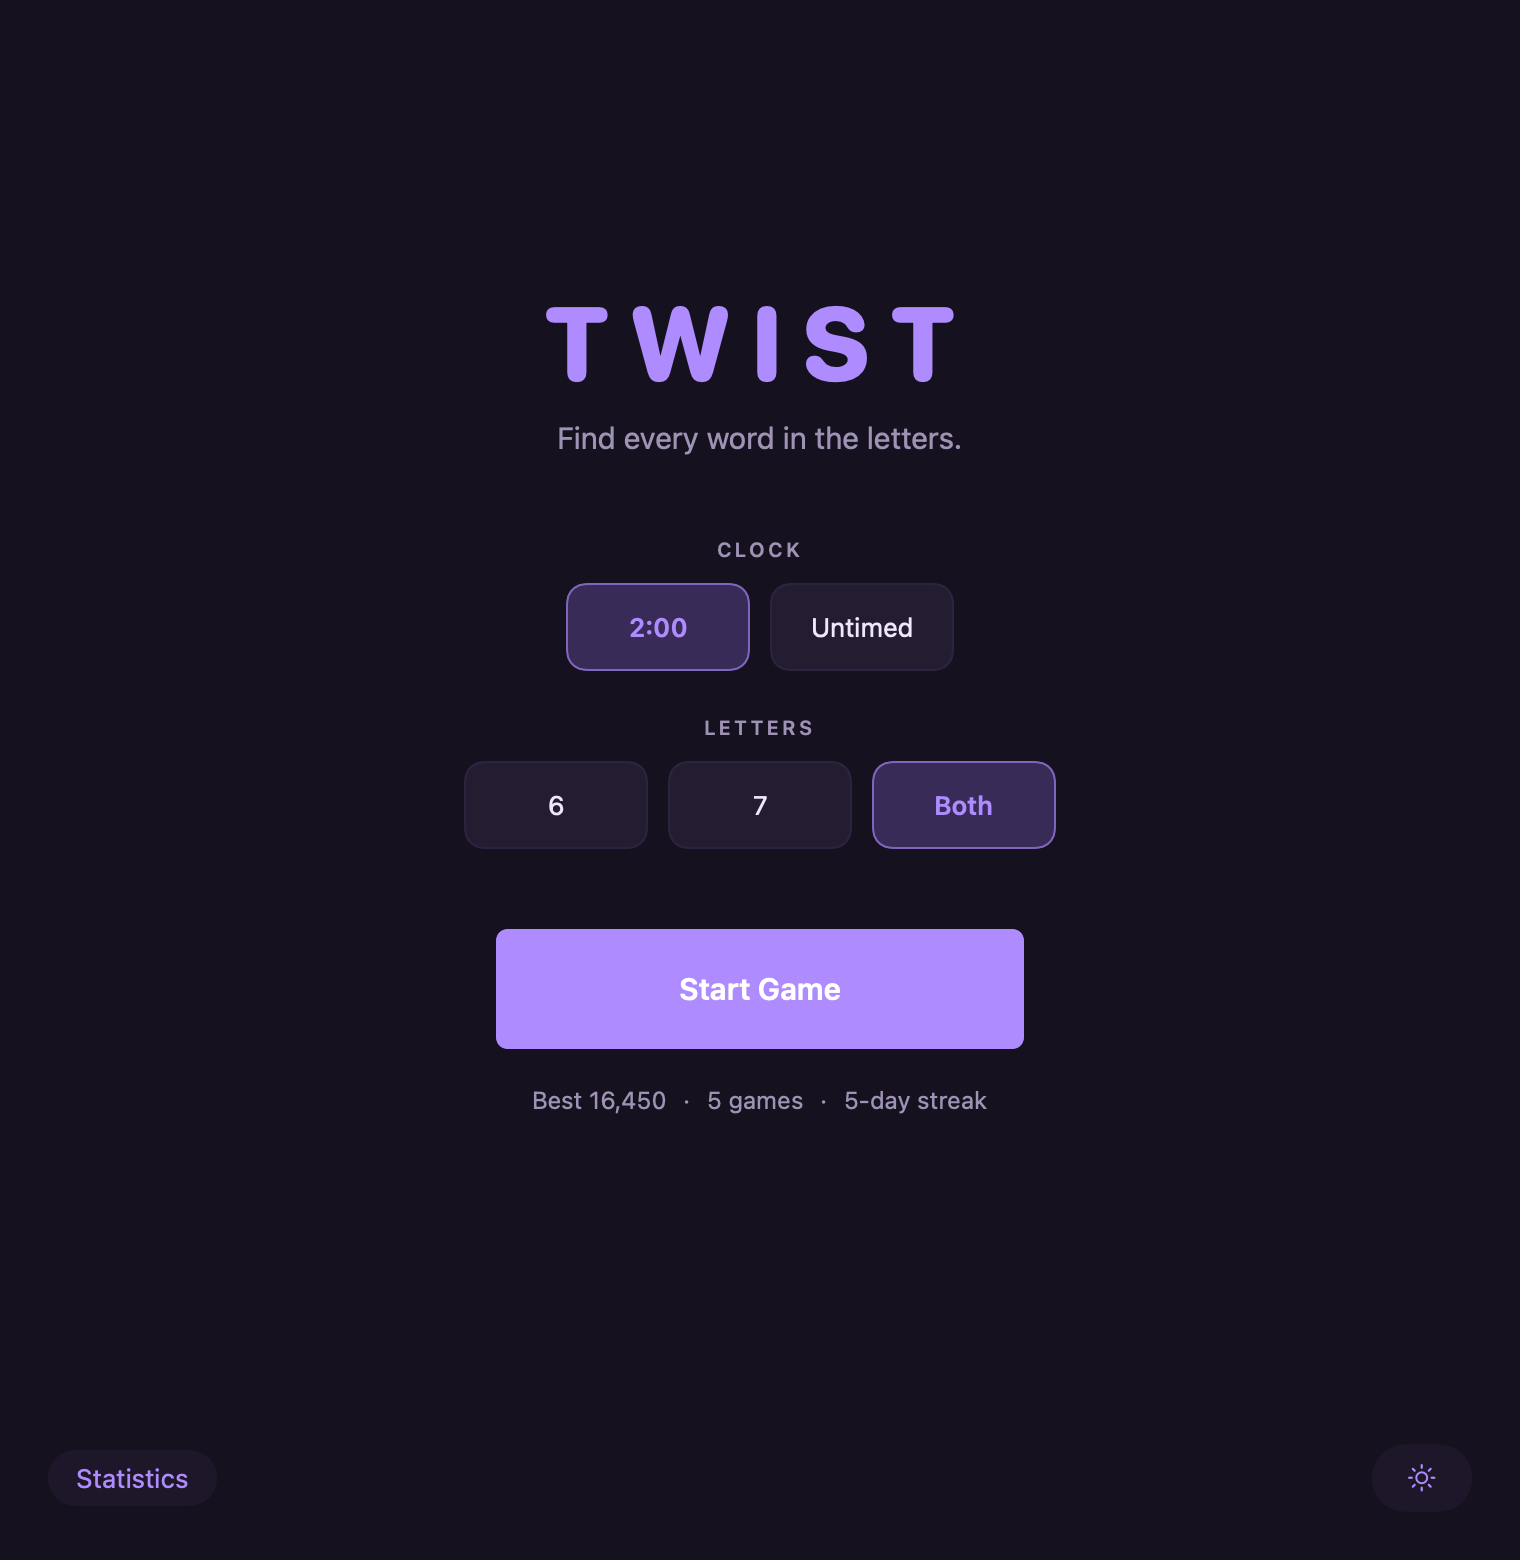
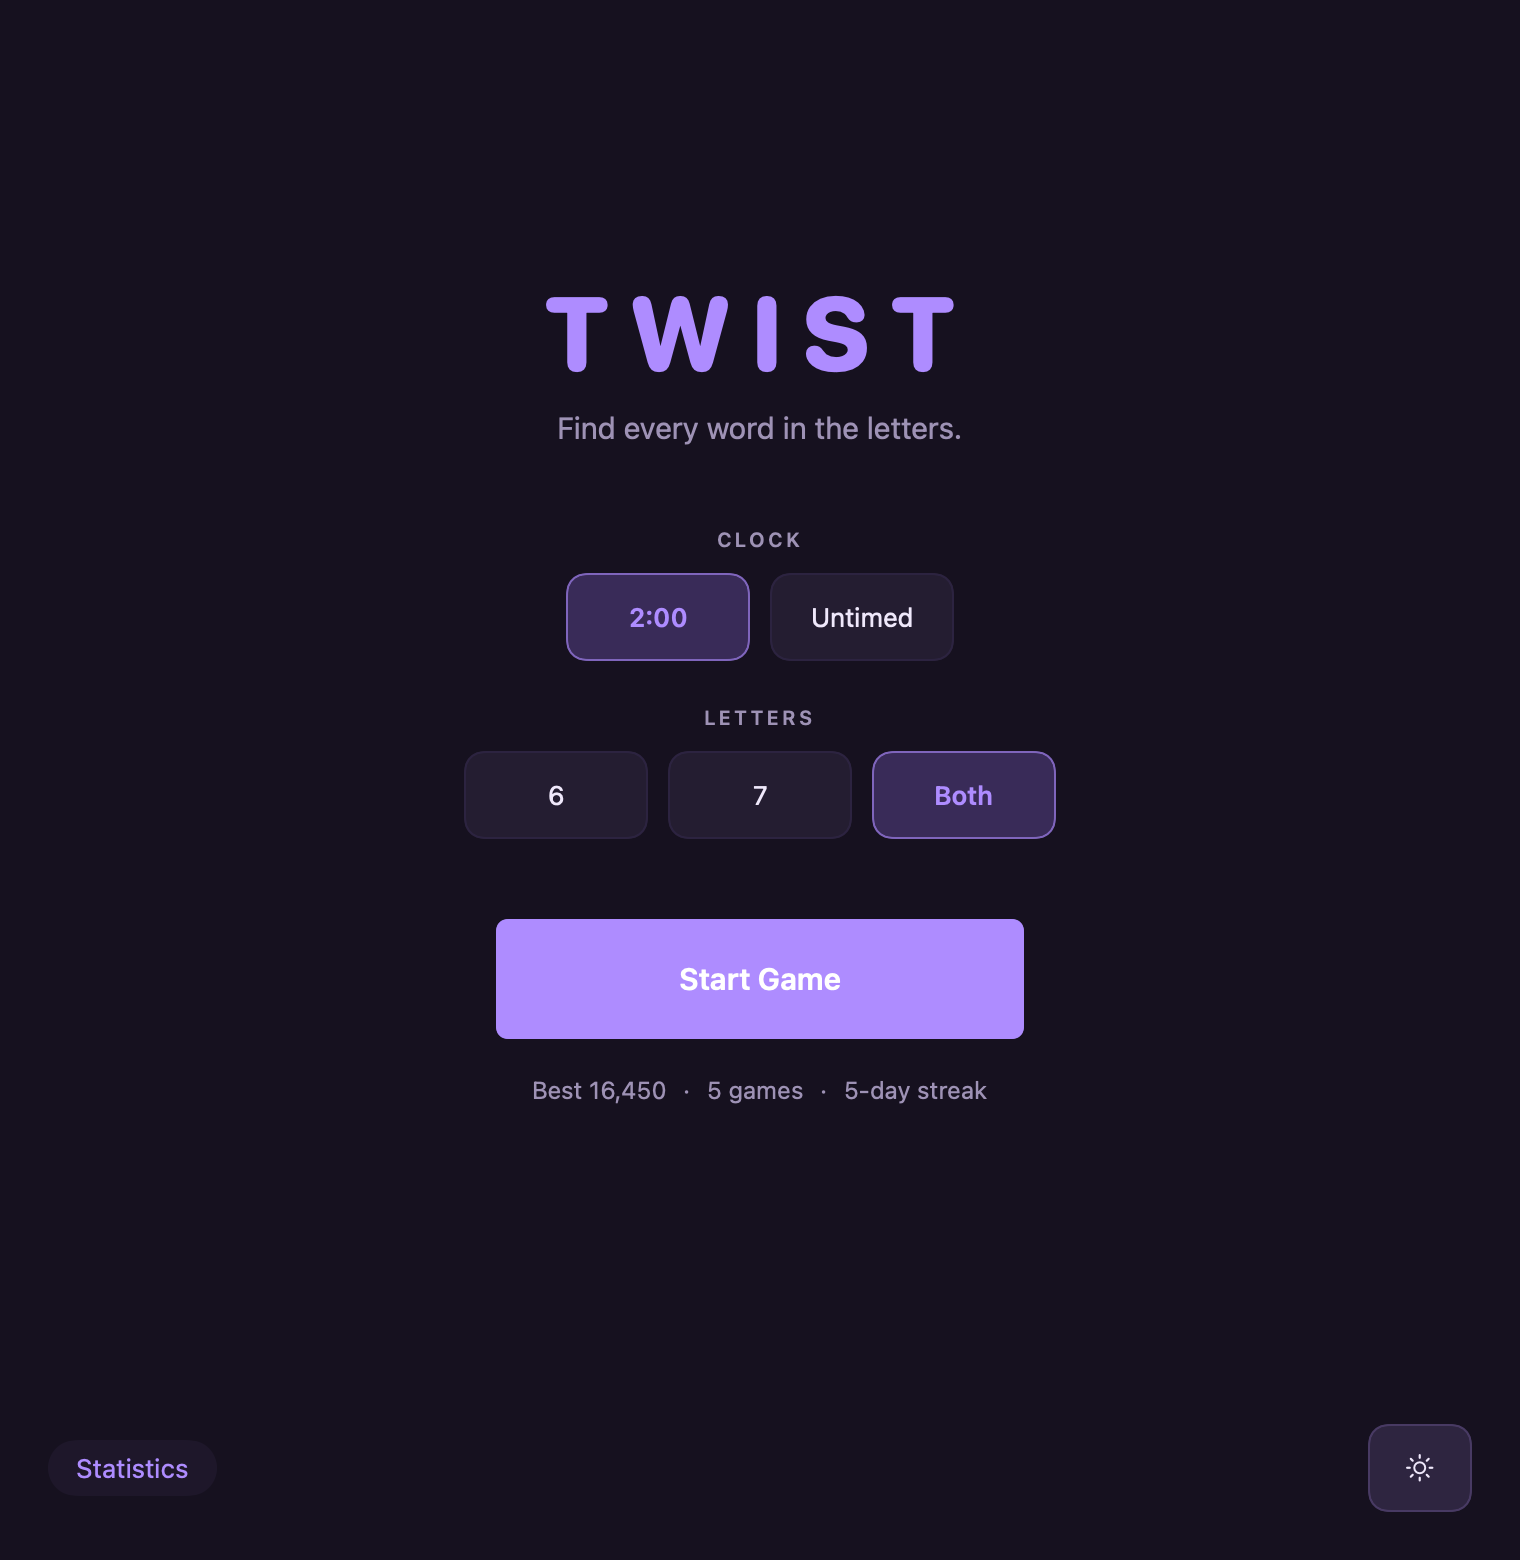
Centre Enter and Twist below the rack, with visible control borders
Enter leads, Twist follows, centred under the rack rather than offset.

Theme gains controlBorder for buttons. hairline is within a few steps of
the tile fill in light mode, which suits the tile grid but left Twist and
the icon toggles reading as edgeless.

The sound and appearance toggles move to a shared IconButtonStyle at
52x44, so they carry the same edge and clear the 44pt target figure.

diff --git a/Sources/Twist/GameView.swift b/Sources/Twist/GameView.swift
@@ -334,30 +334,21 @@ private struct Rack: View {
     }
 }
 
-/// Twist and Enter, sitting directly beneath the rack.
-///
-/// Offset right of the rack's centre rather than centred on it. The input line fills
-/// left-to-right, so when a word is finished both eye and pointer are already right of centre;
-/// putting the action there shortens the travel to reach it. Enter sits rightmost as the
-/// primary action, which is also the macOS convention.
+/// Enter and Twist, centred directly beneath the rack.
 private struct PrimaryActions: View {
     let model: GameModel
 
     var body: some View {
         HStack(spacing: 12) {
-            Button("Twist") { model.twist() }
-                .buttonStyle(PrimaryButtonStyle())
-                .help("Shuffle the rack (Space)")
             Button("Enter") { model.submit() }
                 .buttonStyle(PrimaryButtonStyle(isProminent: true))
                 .keyboardShortcut(.defaultAction)
                 .help("Submit the word (Return)")
+            Button("Twist") { model.twist() }
+                .buttonStyle(PrimaryButtonStyle())
+                .help("Shuffle the rack (Space)")
         }
         .pointerStyle(.link)
-        // Leading padding on a full-width container shifts the centred content right by half
-        // the padding — layout-safe, unlike .offset, which would not reserve the space.
-        .frame(maxWidth: .infinity)
-        .padding(.leading, 130)
     }
 }
 
@@ -381,11 +372,12 @@ private struct UtilityBar: View {
 
             Spacer()
 
-            Toggle(isOn: Binding(get: { model.isSoundEnabled }, set: { model.isSoundEnabled = $0 })) {
+            Button {
+                model.isSoundEnabled.toggle()
+            } label: {
                 Image(systemName: model.isSoundEnabled ? "speaker.wave.2" : "speaker.slash")
-                    .frame(width: 22, height: 22)
             }
-            .toggleStyle(.button)
+            .buttonStyle(IconButtonStyle())
             .help(model.isSoundEnabled ? "Mute" : "Unmute")
             .accessibilityLabel("Sound")
 
@@ -396,8 +388,8 @@ private struct UtilityBar: View {
                 appearance = isDark ? .light : .dark
             } label: {
                 Image(systemName: isDark ? "sun.max" : "moon")
-                    .frame(width: 22, height: 22)
             }
+            .buttonStyle(IconButtonStyle())
             .help(isDark ? "Switch to light" : "Switch to dark")
             .accessibilityLabel(isDark ? "Switch to light appearance" : "Switch to dark appearance")
 

diff --git a/Sources/Twist/TileView.swift b/Sources/Twist/TileView.swift
@@ -108,7 +108,28 @@ struct PrimaryButtonStyle: ButtonStyle {
             // in dark, so it holds in both without a per-scheme special case.
             .foregroundStyle(isProminent ? Theme.background : Theme.textPrimary)
             .background(shape.fill(isProminent ? AnyShapeStyle(Theme.accent) : AnyShapeStyle(Theme.tile)))
-            .overlay(shape.strokeBorder(isProminent ? Color.clear : Theme.hairline, lineWidth: 1))
+            .overlay(shape.strokeBorder(isProminent ? Color.clear : Theme.controlBorder, lineWidth: 1))
+            .contentShape(shape)
+            .scaleEffect(configuration.isPressed ? 0.97 : 1)
+            .animation(.snappy(duration: 0.12), value: configuration.isPressed)
+    }
+}
+
+
+/// The square icon toggles — sound, and light/dark.
+///
+/// Carries the same visible edge as Twist. Sound is bordered alongside the appearance toggle
+/// rather than left bare: they are the same kind of control sitting next to each other, and
+/// outlining one of a matched pair reads as a mistake.
+struct IconButtonStyle: ButtonStyle {
+    func makeBody(configuration: Configuration) -> some View {
+        let shape = RoundedRectangle(cornerRadius: 10, style: .continuous)
+        return configuration.label
+            .font(.body)
+            .frame(width: 52, height: 44)
+            .foregroundStyle(Theme.textPrimary)
+            .background(shape.fill(Theme.tile))
+            .overlay(shape.strokeBorder(Theme.controlBorder, lineWidth: 1))
             .contentShape(shape)
             .scaleEffect(configuration.isPressed ? 0.97 : 1)
             .animation(.snappy(duration: 0.12), value: configuration.isPressed)

diff --git a/Sources/Twist/Theme.swift b/Sources/Twist/Theme.swift
@@ -46,6 +46,10 @@ enum Theme {
 
     static let hairline = dynamic(light: 0xE0D6F2, dark: 0x2C2340)
 
+    /// Border for buttons, as opposed to the tile grid. Stronger than `hairline`, which is
+    /// close enough to the tile fill in light mode that a bordered button reads as edgeless.
+    static let controlBorder = dynamic(light: 0xC0ACE6, dark: 0x483A63)
+
     /// Positive feedback. A green that belongs to this palette rather than the system's.
     static let positive = dynamic(light: 0x2E7D57, dark: 0x6FD9A6)
 

diff --git a/Sources/Twist/StartView.swift b/Sources/Twist/StartView.swift
@@ -86,8 +86,8 @@ struct StartView: View {
                     appearance = colorScheme == .dark ? .light : .dark
                 } label: {
                     Image(systemName: colorScheme == .dark ? "sun.max" : "moon")
-                        .frame(width: 22, height: 22)
                 }
+                .buttonStyle(IconButtonStyle())
                 .help(colorScheme == .dark ? "Switch to light" : "Switch to dark")
                 .accessibilityLabel("Appearance")
             }
